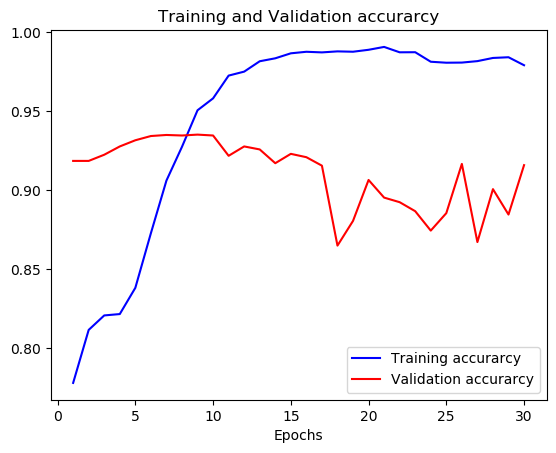
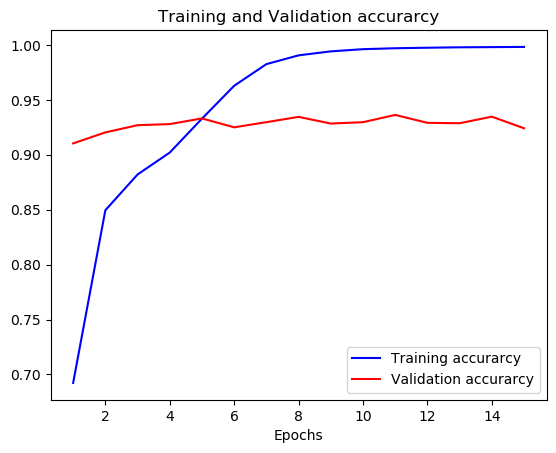
fit_generator()

diff --git a/nlp/nlp.py b/nlp/nlp.py
@@ -45,9 +45,7 @@ def train_model(
         embedding_matrix, embedding_dim, num_sen_per_doc, sen_len)
     print("Finished creating model")
     print(model.summary())
-
-    history = model.fit(x_tr, y_tr, epochs=num_epochs, batch_size=batch_size,
-              validation_split=validation_split)
+    history = rnn_model.train_model_generator(x_tr, y_tr, batch_size, model, num_epochs)
     data_operations.plot_training_and_validation_data(history,
                                                       helpers.abbreviate_num_to_str(num_docs))
     model.save(save_model_path)
@@ -55,10 +53,9 @@ def train_model(
     return model
 
 
-def evaluate_model(x_tst, y_tst, text, tokenizer, sen_pad_len,
+def evaluate_model(text, tokenizer, sen_pad_len,
                    doc_pad_len, model):
-    # print(f"Evaluating model: [loss, accuracy]: {model.evaluate(x_tst, y_tst)
-    # }")
+
     text = split_text_into_sentences(text)
     for i in range(len(text)):
         text[i] = parse_sentence(text[i])
@@ -98,7 +95,7 @@ def get_percentage_of_segment_starting_sentences(y, doc_pad_len):
 
 
 if __name__ == "__main__":
-    num_docs = 10000
+    num_docs = 1000
     save_model_path = "saved_models/model" + str(num_docs) + ".h5"
     read_docs_path = "extracted/wiki_727K"
     y_tr, y_tst, list_of_all_words, sentence_document_mapping, avg_sen_len = \
@@ -125,7 +122,7 @@ if __name__ == "__main__":
     del sequences
     gc.collect()
 
-    # group data as documents
+    # group training data as documents
     documents_x_tr, documents_y_tr = [], []
     documents_x_tst, documents_y_tst = [], []
     curr_doc_x, curr_doc_y = [x_tr[0]], [y_tr[0]]
@@ -140,6 +137,7 @@ if __name__ == "__main__":
             curr_doc_x.append(x_tr[i])
             curr_doc_y.append(y_tr[i])
 
+    # group test data as documents
     curr_doc_x, curr_doc_y = [x_tst[0]], [y_tst[0]]
     for i in range(1, len(x_tst)):
         # new document
@@ -161,9 +159,9 @@ if __name__ == "__main__":
     np.append(documents_y_tr[-1], y_tr[-1])
     np.append(documents_y_tst, y_tst[-1])
 
-    documents_x_tr = np.array([np.array(lst, dtype='float')
+    documents_x_tr = np.array([np.array(lst, dtype='object')
                                for lst in documents_x_tr], dtype='object')
-    documents_x_tst = np.array([np.array(lst, dtype='float')
+    documents_x_tst = np.array([np.array(lst, dtype='object')
                                 for lst in documents_x_tst], dtype='object')
 
     x_tr = np.array(documents_x_tr, dtype='object')
@@ -188,15 +186,16 @@ if __name__ == "__main__":
     doc_pad_len = round(sum(doc_lens) / len(doc_lens))
     doc_pad_len += 5
 
-    # now all docs have the same number of sentences
-    x_tr = pad_sequences(x_tr, doc_pad_len, padding='post',
-                         truncating='post')
-    y_tr = pad_sequences(y_tr, doc_pad_len, padding='post',
-                         truncating='post')
+    # padding - now all docs have the same number of sentences
+    # x_tr = pad_sequences(x_tr, doc_pad_len, padding='post',
+    #                      truncating='post')
+    # y_tr = pad_sequences(y_tr, doc_pad_len, padding='post',
+    #                      truncating='post')
     x_tst = pad_sequences(x_tst, doc_pad_len, padding='post',
                           truncating='post')
     y_tst = pad_sequences(y_tst, doc_pad_len, padding='post',
                           truncating='post')
+
     # help determine pos_weight in rnn_model.custom_loss() correctly
     # percentage = get_percentage_of_segment_starting_sentences(y_tr, doc_pad_len)
     # print(f"Percentage of segment-starting sentences: {percentage}%")
@@ -209,22 +208,22 @@ if __name__ == "__main__":
 
     y_tr.shape = (num_docs_tr, num_sen_in_longest_doc)
     '''
-
     embedding_dim = 100
     embedding_matrix = calculate_embedding_matrix(
         tokenizer.word_index, embedding_dim)
-
-    num_docs_tr = x_tr.shape[0]
+    # num_docs_tr = x_tr.shape[0]
     num_docs_tst = x_tst.shape[0]
-    num_sen_per_doc = x_tr.shape[1]
-    sen_len = x_tr.shape[2]
+    num_sen_per_doc = len(x_tr[0])
+    # num_sen_per_doc = 0
+    # sen_len = x_tr.shape[2]
+    sen_len = len(x_tr[0][0])
 
-    batch_size = 64
+    batch_size = 32
     num_epochs = 15
     validation_split = 0.2
-    y_tr = y_tr.reshape(num_docs_tr, num_sen_per_doc, 1)
-    y_tst = y_tst.reshape(num_docs_tst, num_sen_per_doc, 1)
-
+    # y_tr = y_tr.reshape(num_docs_tr, num_sen_per_doc, 1)
+    # y_tst = y_tst.reshape(num_docs_tst, num_sen_per_doc, 1)
+    y_tst = np.expand_dims(y_tst, axis=2)
     texts = [constants.TEXT_1, constants.TEXT_2,
              constants.TEXT_3, constants.TEXT_4, constants.TEXT_5]
     train = True
@@ -234,27 +233,28 @@ if __name__ == "__main__":
             x_tr, y_tr, batch_size, num_epochs, validation_split,
             save_model_path, tokenizer, embedding_matrix, embedding_dim,
             num_sen_per_doc, sen_len, num_docs)
-
-    if model is None:
-        ''' # TODO (maybe): model = load_model(path,
-        custom_objects={'focal_loss_fixed': focal_loss()})'''
-
+        print(f"Evaluating model: [loss, accuracy]: {model.evaluate(x_tst, y_tst)}")
+    else:
+        ''' if loss is required (e.g. for model.evaluate()), use
+        model = load_model(save_model_path,
+        custom_objects={'custom_loss': rnn_model.custom_loss(y_true, y_pred)})
+        if the model will only be used for inference, compile=False is your friend :)
+        '''
         # compile=False added because of custom loss function
         model = load_model(save_model_path, compile=False)
 
-    seq_text = x_tr[0].reshape(1, x_tr[0].shape[0], x_tr[0].shape[1])
-    label = y_tr[0].reshape(1, y_tr[0].shape[0], y_tr[0].shape[1])
-    predictions = model.predict(seq_text)
-    print(predictions)
-    for i in range(len(predictions[0])):
-        print(f"{predictions[0][i][0]}: {y_tr[0][i]}")
-    exit()
+    # seq_text = x_tr[0].reshape(1, x_tr[0].shape[0], x_tr[0].shape[1])
+    # label = y_tr[0].reshape(1, y_tr[0].shape[0], y_tr[0].shape[1])
+    # predictions = model.predict(seq_text)
+    # print(predictions)
+    # for i in range(len(predictions[0])):
+    #     print(f"{predictions[0][i][0]}: {y_tr[0][i]}")
+    # exit()
 
     # print("---------------------------------")
     # predictions1 = model.predict(x_tr[1])[0]
     # for i in range(len(predictions1)):
     #     print(f"{predictions1[i][0]}: {x_tr[1]:50}")
 
-    evaluate_model(x_tst, y_tst,
-                   texts[4], tokenizer, sen_pad_len,
+    evaluate_model(texts[4], tokenizer, sen_pad_len,
                    doc_pad_len, model)

diff --git a/nlp/rnn_model.py b/nlp/rnn_model.py
@@ -4,8 +4,11 @@ from keras import initializers
 from keras.optimizers import Adam
 from keras.layers import Dense, GRU, Bidirectional, Embedding,\
     Reshape, Lambda, Dropout, BatchNormalization, Activation
+from keras.preprocessing.sequence import pad_sequences
 import tensorflow as tf
+from helpers import find_lengths_in_batch
 # from keras.regularizers import l2
+import numpy as np
 
 tf.random.set_seed(3)  # Tensorflow
 gpus = tf.config.experimental.list_physical_devices('GPU')
@@ -35,8 +38,10 @@ def add_dense(model):
 
 @tf.function()
 def custom_loss(y_true, y_pred):
+    # print(y_true.shape, y_true)
+    # print(y_pred.shape, y_pred)
     # "A coefficient to use on the positive examples."
-    pos_weight = 10.0 / 1.0
+    pos_weight = 5.0 / 1.0
     loss = tf.reduce_mean(tf.nn.weighted_cross_entropy_with_logits(y_true,
                                                                    y_pred,
                                                                    pos_weight))
@@ -45,16 +50,17 @@ def custom_loss(y_true, y_pred):
 
 def create_model(word_index_len, embedding_matrix, embedding_dim,
                  num_sen_per_doc, sen_len):
-    # TODO: odradi fit_generator
     model = Sequential()
-    embedding_layer = Embedding(word_index_len + 1, embedding_dim,
+    embedding_layer = Embedding(input_dim=word_index_len + 1,
+                                output_dim=embedding_dim,
                                 mask_zero=True,
-                                input_shape=(num_sen_per_doc, sen_len),
+                                input_shape=(None, sen_len),
                                 trainable=True, weights=[embedding_matrix])
     model.add(embedding_layer)
     model.add(Lambda(lambda x: x, output_shape=lambda s: s))
-    model.add(Reshape((num_sen_per_doc, sen_len * embedding_dim),
-              input_shape=(num_sen_per_doc * sen_len, embedding_dim)))
+
+    # -1 stands for shape inference
+    model.add(Reshape((-1, sen_len * embedding_dim)))
 
     model = add_bidirectional(model)
     model = add_bidirectional(model)
@@ -64,8 +70,47 @@ def create_model(word_index_len, embedding_matrix, embedding_dim,
 
     # output probability that current sentence starts a new segment
     model.add(Dense(1, activation="sigmoid"))
-    # model.compile(loss='binary_crossentropy',
     model.compile(loss=custom_loss,
                   optimizer=Adam(lr=1e-3),
                   metrics=["accuracy"])
     return model
+
+
+def custom_generator(x, y, batch_size):
+    samples_per_epoch = len(x)
+    number_of_batches = samples_per_epoch/batch_size
+    counter = 0
+    while True:
+        x_batch = x[batch_size*counter:batch_size*(counter+1)]
+        y_batch = y[batch_size*counter:batch_size*(counter+1)]
+        avg_doc_len, _ = find_lengths_in_batch(x_batch)
+        x_batch = pad_sequences(x_batch, avg_doc_len, padding='post', truncating='post')
+        y_batch = pad_sequences(y_batch, avg_doc_len, padding='post', truncating='post')
+
+        # print(y_batch.shape)
+        # print("gotovo pedovanje")
+        counter += 1
+        yield x_batch, np.reshape(y_batch, (y_batch.shape[0], y_batch.shape[1], 1))
+
+        # restart counter to yield data in the next epoch as well
+        if counter >= number_of_batches:
+            counter = 0
+
+
+def train_model_generator(x, y, batch_size, model, num_epochs):
+    length = int(0.8*len(x))
+    x_tr = x[:length]
+    y_tr = y[:length]
+    x_val = x[length:]
+    y_val = y[length:]
+    # print(len(x_tr), y_tr.shape, y_tr[0].shape)
+    # print(y_tr)
+    # exit()
+    # print(x_tr[0], type(x_tr[0]))
+    # x_tr = pad_sequences(x_tr, 22, padding='post', truncating='post')
+    # print(x_tr[0], type(x_tr[0]))
+    # exit()
+    return model.fit_generator(custom_generator(x_tr, y_tr, batch_size), epochs=num_epochs,
+                               steps_per_epoch = len(x_tr)//batch_size,
+                               validation_data = custom_generator(x_val, y_val, batch_size*2),
+                               validation_steps = len(x_val)//(batch_size*2))

diff --git a/nlp/helpers.py b/nlp/helpers.py
@@ -1,10 +1,43 @@
 def abbreviate_num_to_str(num):
     if num >= 100000:
-        num = round(num / 100000, 2) * 100
+        num = int(round(num / 100000, 2) * 100)
     elif num >= 10000:
-        num = round(num / 10000, 1) * 10
+        num = int(round(num / 10000, 1) * 10)
     elif num >= 1000:
-        num = round(num / 1000)
+        num = int(round(num / 1000))
     else:
         return str(num)
     return f'{num}k'
+
+
+def find_lengths_in_batch(x):
+    """Find average document and sentence
+    length in batch.
+
+    Args:
+        x (list): batch of documents
+
+    Returns:
+        tuple: avg_doc_len, avg_sen_len
+    """
+
+    avg_doc_len = 0
+    avg_sen_len = 0
+    num_sents = 0
+    for doc in x:
+        avg_doc_len += len(doc)
+        for sen in doc:
+            avg_sen_len += len(sen)
+            num_sents += 1
+    avg_doc_len /= len(x)
+    avg_sen_len /= num_sents
+    return round(avg_doc_len), round(avg_sen_len)
+    # max_doc_len = 0
+    # max_sen_len = 0
+    # for doc in x:
+    #     if len(doc) > max_doc_len:
+    #         max_doc_len = len(doc)
+    #     for sen in doc:
+    #         if len(sen) > max_sen_len:
+    #             max_sen_len = len(sen)
+    # return max_doc_len, max_sen_len

diff --git a/nlp/tempCodeRunnerFile.py b/nlp/tempCodeRunnerFile.py
@@ -1,0 +1,1 @@
+pad_sequences
